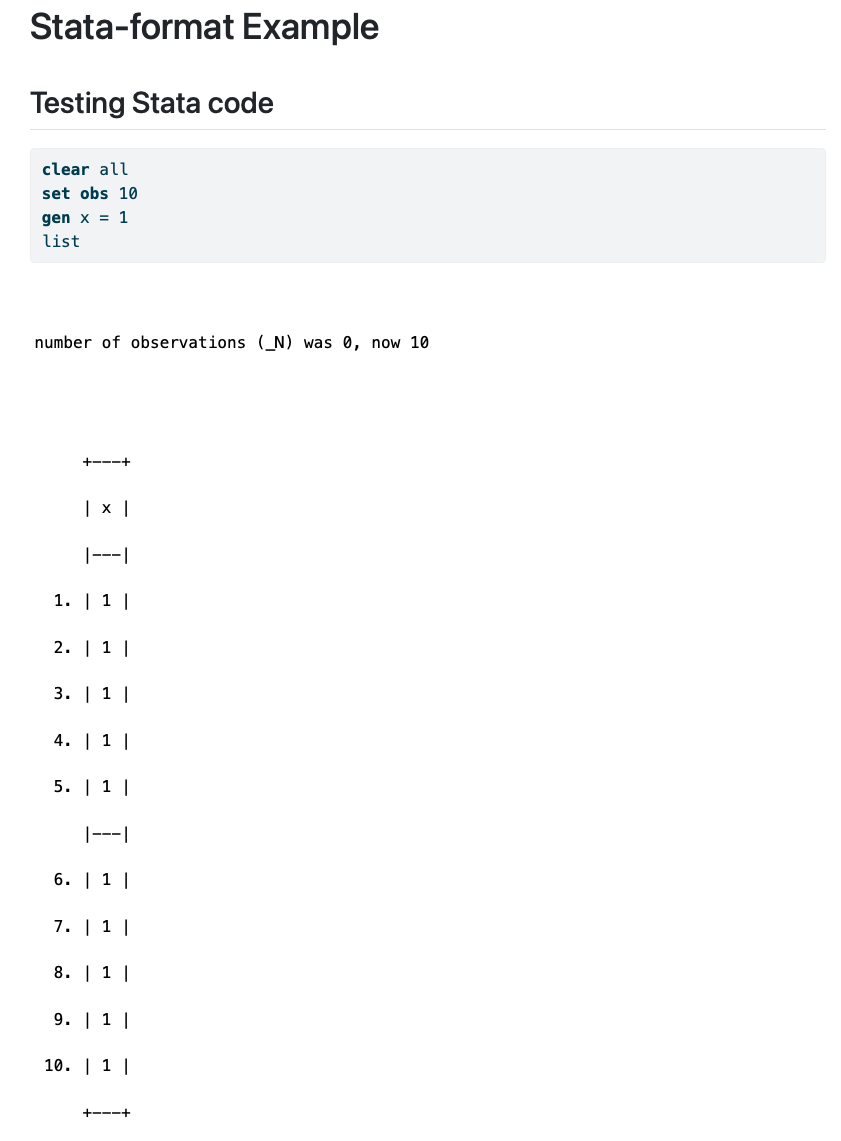
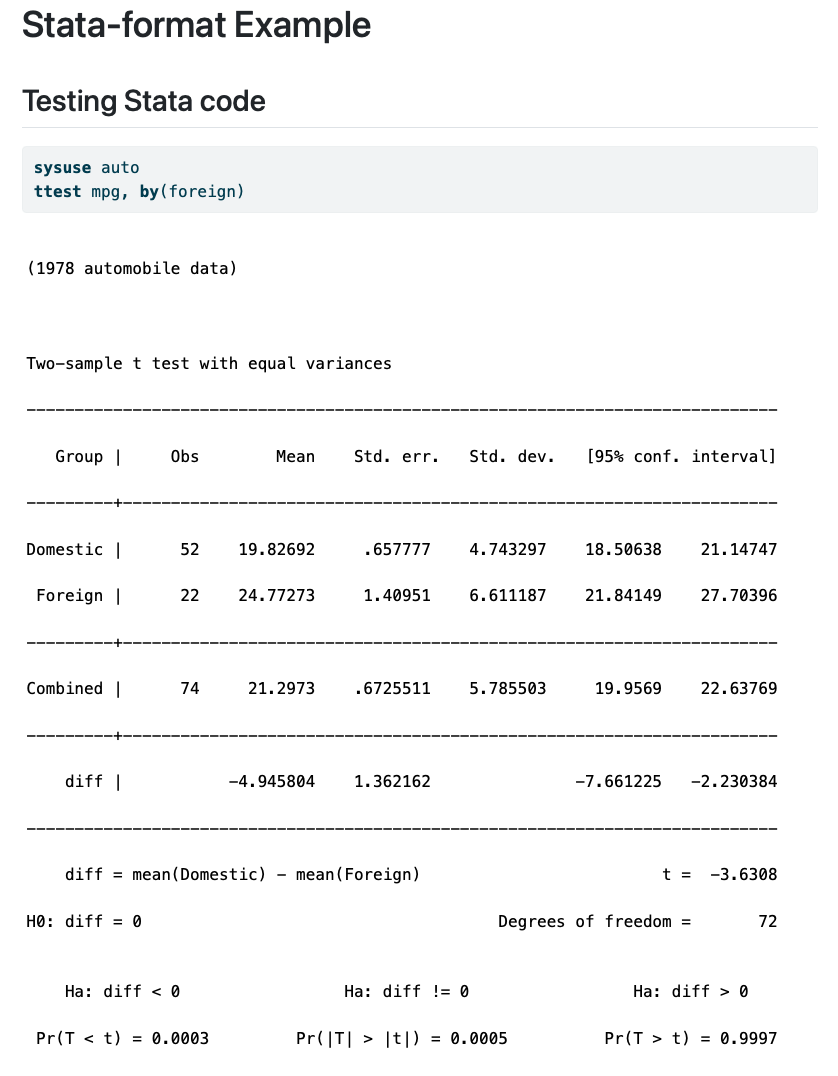
updated example in README

diff --git a/README.md b/README.md
@@ -6,11 +6,12 @@ code cells such as this:
 
 ````
 ```{stata}
-exit, clear
+sysuse auto
+ttest mpg, by(foreign)
 ```
 ````
 
-the fact that the kernel returns messages as a stream means that Quarto creates a separate
+The fact that the kernel returns messages as a stream means that Quarto creates a separate
 `div` element for each line of output, resulting in many unnecessary newlines that make the
 output hard to read. This extension combines all consecutive text outputs into a single
 `div` and removes all redundant newlines.
